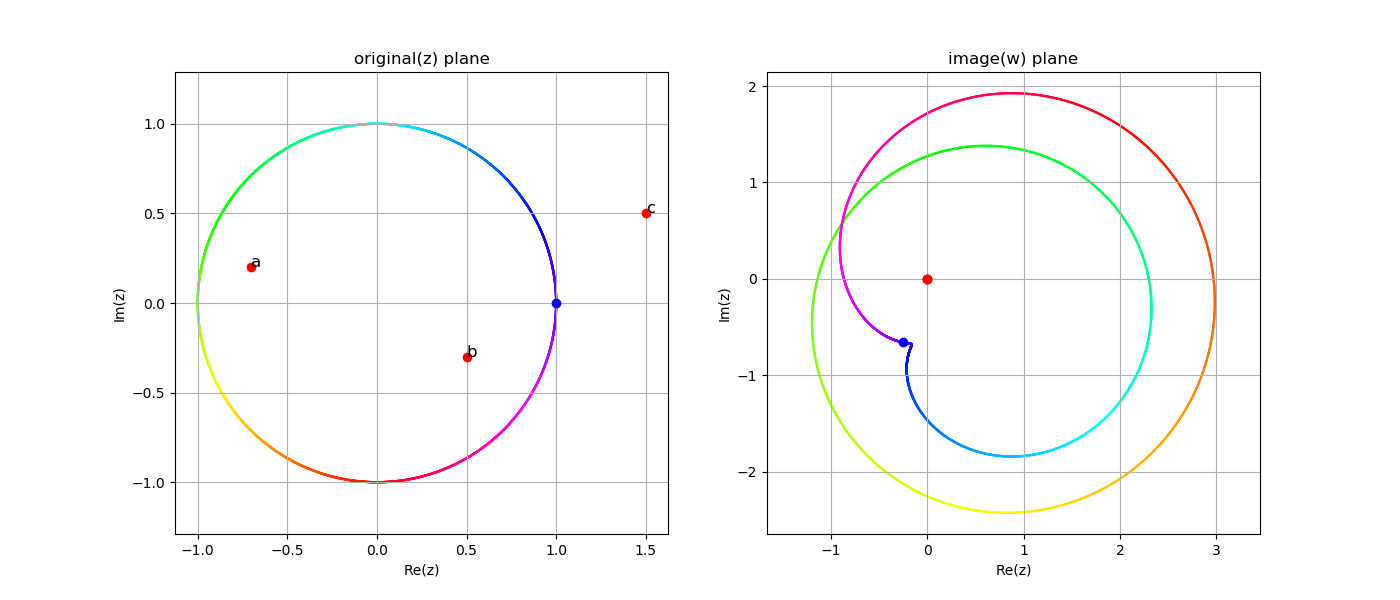
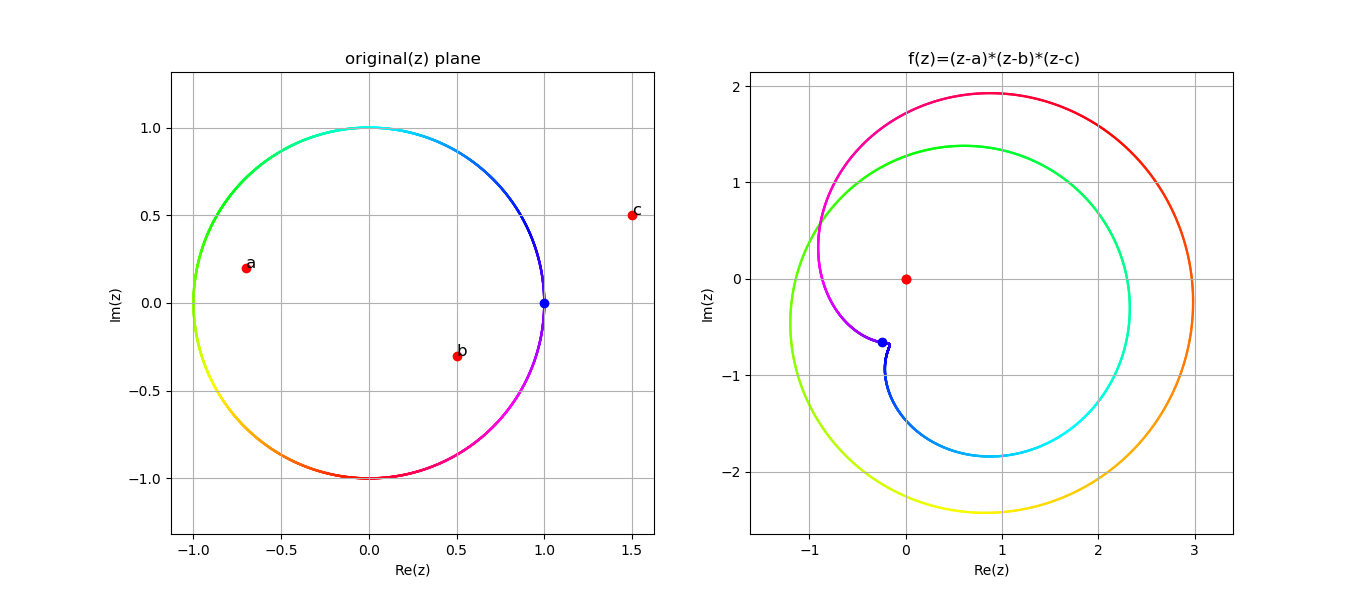
update

diff --git a/topology/winding_number.py b/topology/winding_number.py
@@ -2,8 +2,6 @@ import matplotlib.pyplot as plt
 import numpy as np
 
 
-
-
 def f(z):
     return (z - a) * (z - b) / (z - c)
 
@@ -15,11 +13,11 @@ c = 1.5 + 0.5 * 1j
 fa = f(a)
 fb = f(b)
 # fc = f(c)
-f1 = f(1)
+f1 = f(2)
 
 t = np.linspace(0, 2 * np.pi, 3600)
-uu = 1 * np.cos(t)
-vv = 1 * np.sin(t)
+uu = 2 * np.cos(t)
+vv = 2 * np.sin(t)
 z0 = uu + 1j * vv
 z = f(z0)
 
@@ -34,7 +32,7 @@ plt.ylabel('Im(z)')
 plt.axis('equal')
 plt.grid(True)
 plt.plot([np.real(a), np.real(b), np.real(c)], [np.imag(a), np.imag(b), np.imag(c)], 'ro')
-plt.plot([1], [0], 'bo')
+plt.plot([2], [0], 'bo')
 
 plt.text(np.real(a), np.imag(a), 'a', fontsize=12)
 plt.text(np.real(b), np.imag(b), 'b', fontsize=12)
@@ -42,7 +40,7 @@ plt.text(np.real(c), np.imag(c), 'c', fontsize=12)
 
 plt.subplot(1, 2, 2)
 plt.scatter(np.real(z), np.imag(z), c=T, s=3, lw=0, cmap='hsv')
-plt.title('image(w) plane')
+plt.title(' f(z)=(z-a)*(z-b)/(z-c)')
 plt.xlabel('Re(z)')
 plt.ylabel('Im(z)')
 plt.axis('equal')
